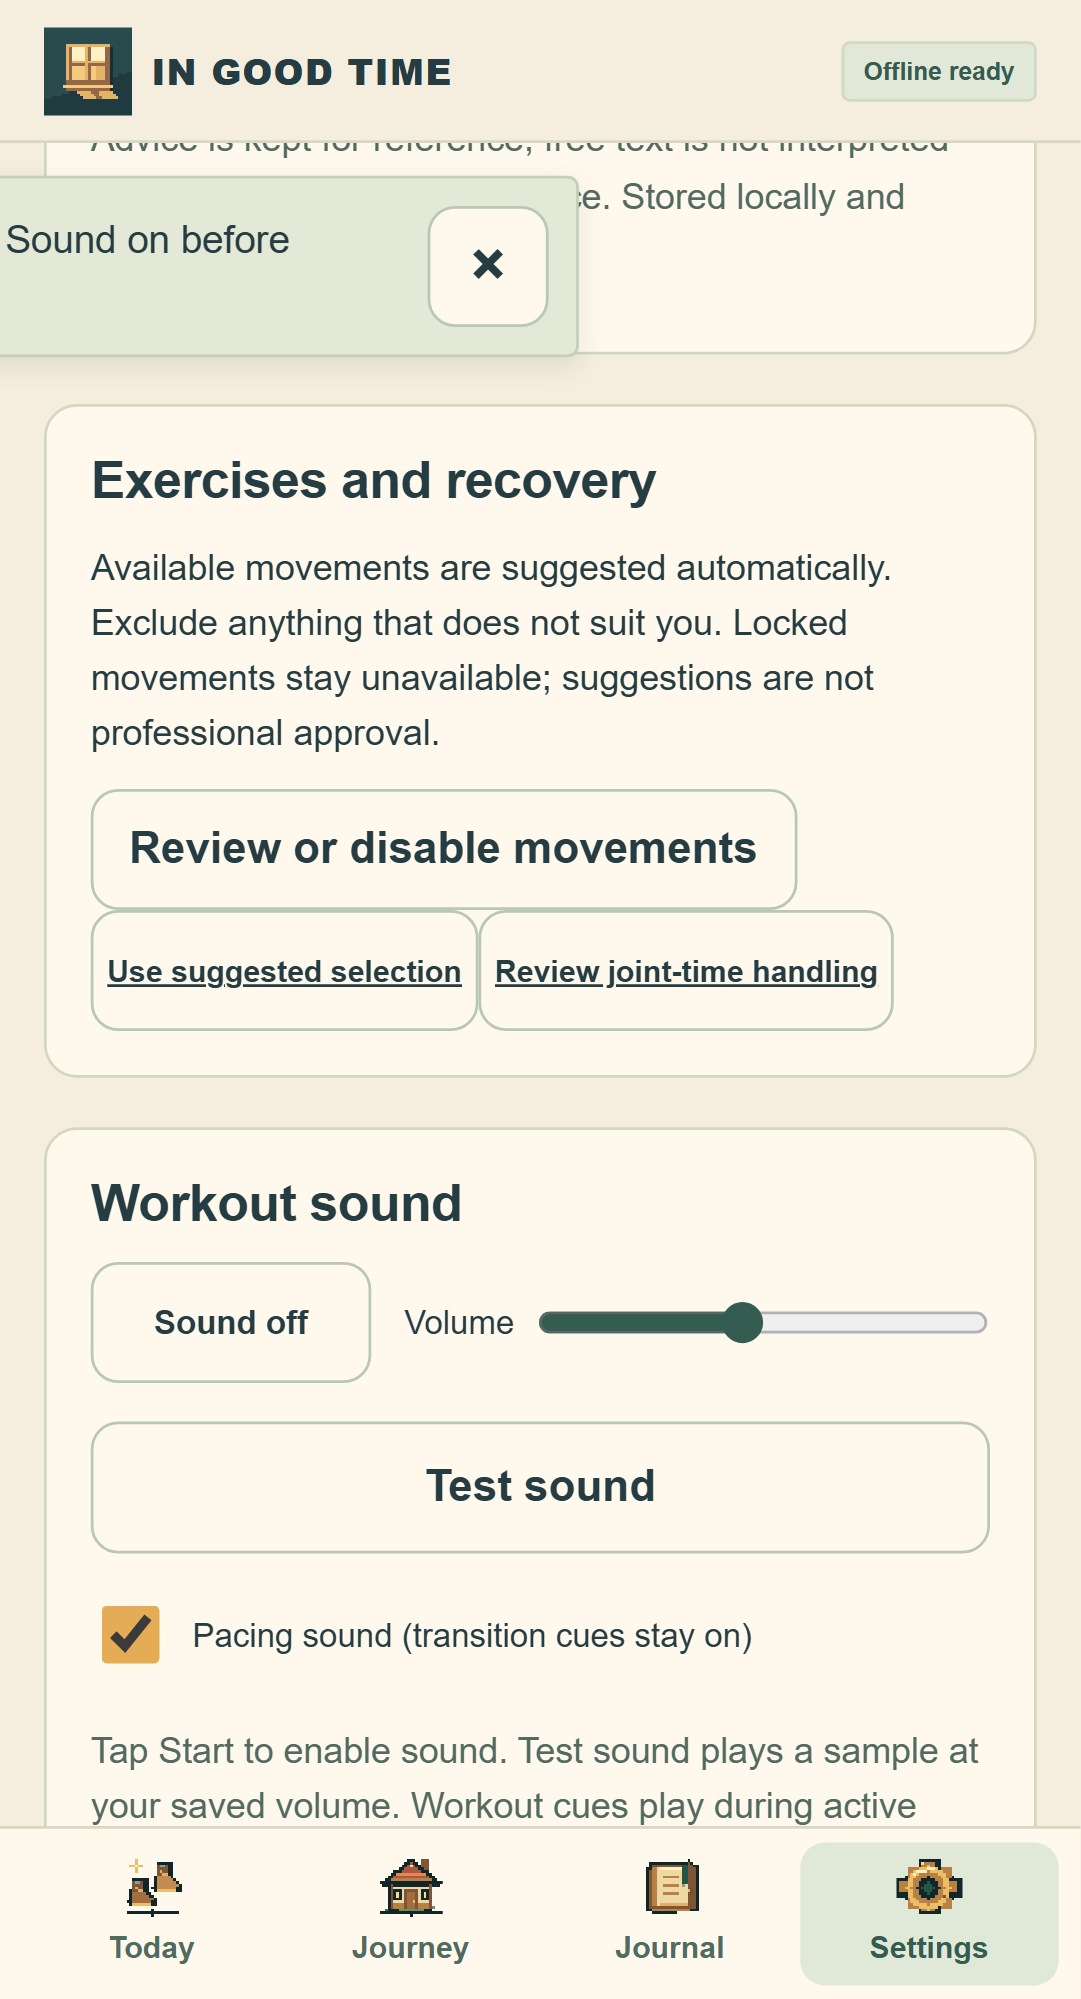
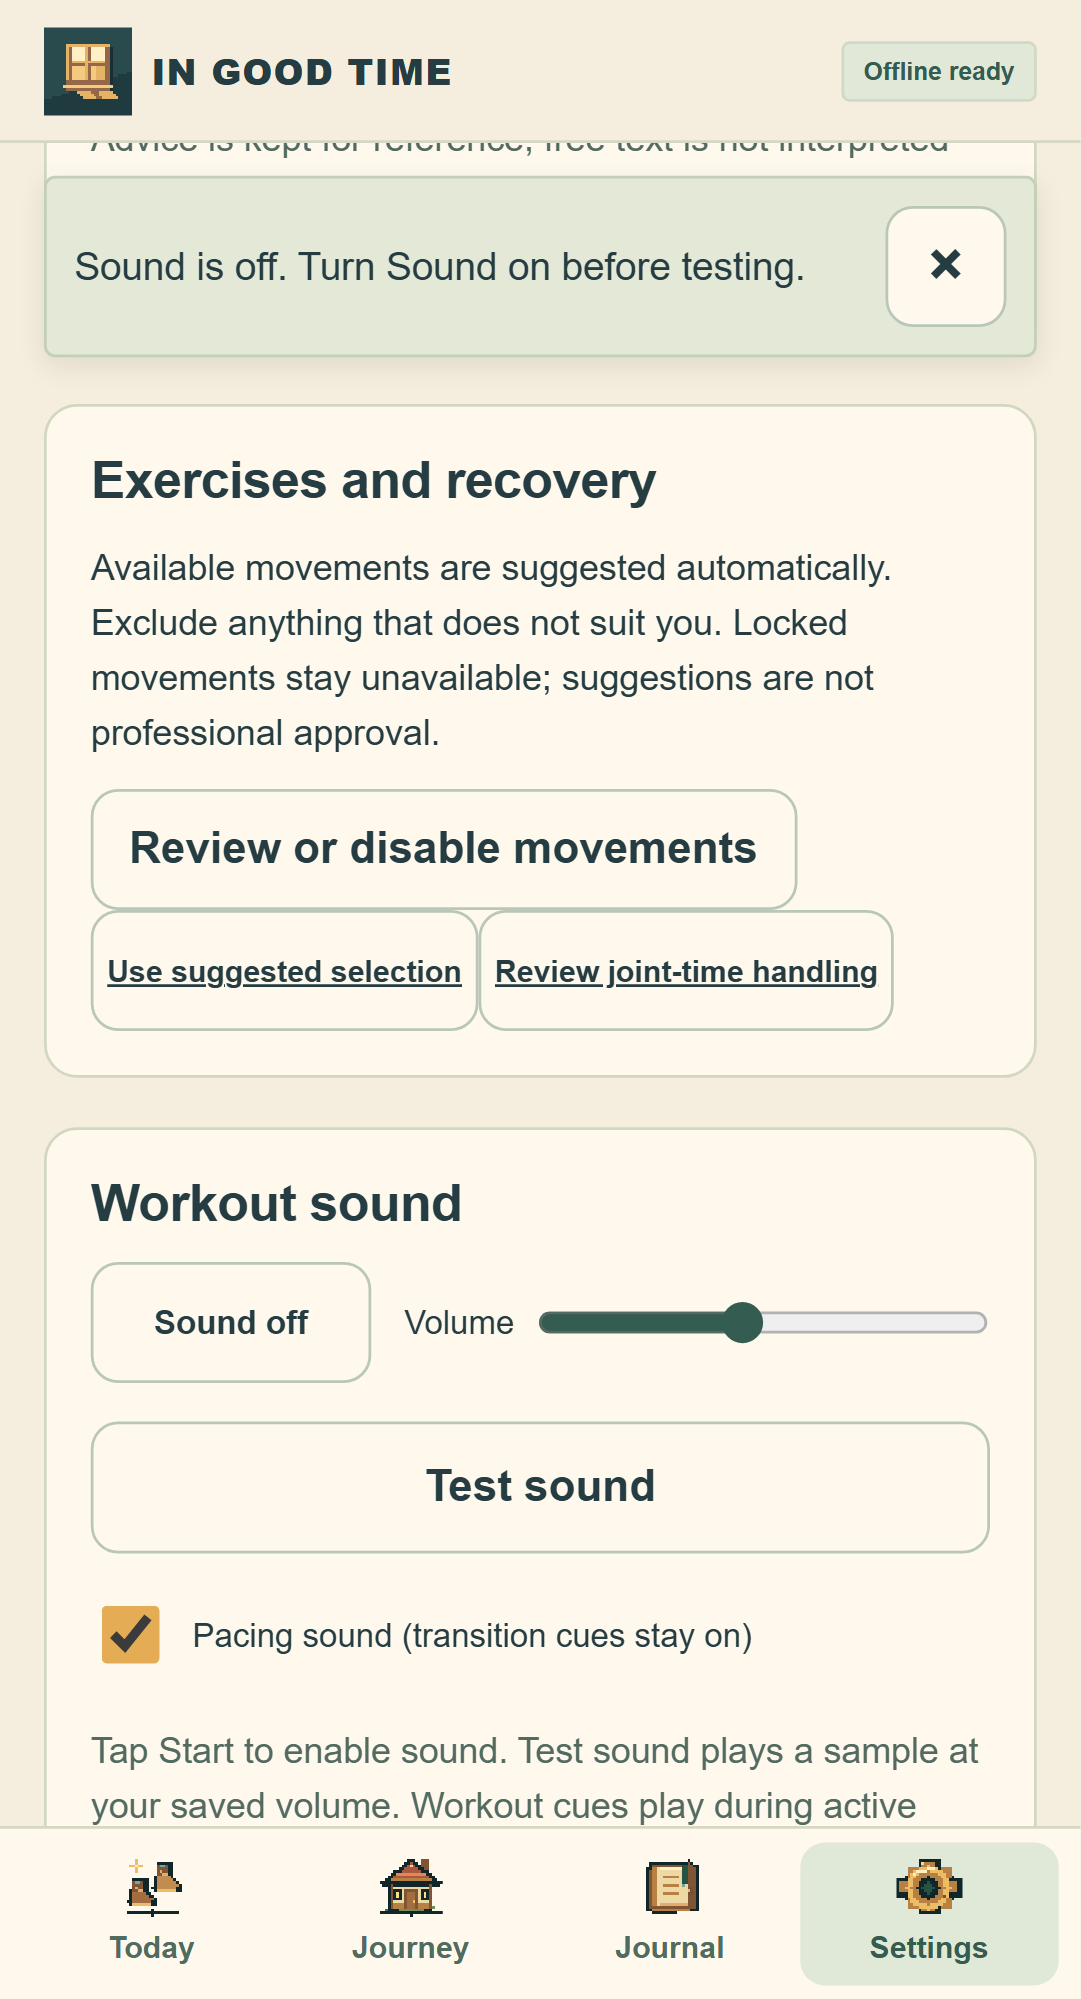
Reset inherited notice transform and assert full viewport bounds

Changed region(s): [[0.0, 0.062, 0.9769, 0.1861]]

diff --git a/src/comeback.css b/src/comeback.css
@@ -32,7 +32,7 @@
 .comeback-mode .plan .row.between .focus-picker select{font-size:16px;width:140px;max-width:140px}
 .comeback-mode .plan .row.between h2{flex:1;min-width:0}
 .comeback-mode :is(button,a,input,select,textarea,summary):focus-visible{outline:2px solid #345c51;outline-offset:3px}
-.comeback-mode .notice{position:sticky;top:0;z-index:6;box-shadow:0 3px 10px #243c421a;font-size:14px}
+.comeback-mode .notice{position:sticky;top:0;left:auto;transform:none;width:100%;max-width:none;z-index:6;box-shadow:0 3px 10px #243c421a;font-size:14px}
 .comeback-mode .notice>span{min-width:0}
 .comeback-mode .exercise-review{overscroll-behavior:contain;scroll-padding-block:18px 150px}
 .comeback-mode .history-heading{display:flex;align-items:flex-start;justify-content:space-between;gap:8px}

diff --git a/docs/ai_dev_log.md b/docs/ai_dev_log.md
@@ -1,3 +1,8 @@
+## 2026-11-01 - Live visual review catches inherited notice transform
+
+- Hosted gate41354323265 passed57 mobile cases and166 unit/art, but final live screenshot review exposed a notice shifted partly off the left edge. The legacy chapter toast retained left50%/translateX(-50%) after the sticky-position override. The prior partial-visibility assertion missed this clipping; the release is not considered closed until corrected.
+- Explicitly reset left/transform/width/max-width in the scoped comeback notice rule. Added full left/right viewport-bound checks to both mobile regression and live verifier. No behavioural/data/eligibility/artwork changes. Focused6 mobile cases PASS; corrected full-width iPhone notice screenshot visually reviewed. Comeback build PASS,53 cached files. Republishing follows.
+
 ## 2026-11-01 - Polish deployed; ready for the planned week
 
 - Runtime source f439dbd plus test-sync fix fd19e4749d9458a2be0246c89a4e59ac3d8c3c98 deployed through successful Pages run41354323265. Final166 unit/art PASS;57 hosted mobile PASS,1 expected WebKit codec skip. All gates retained, including installed update/old backup, actual workout/rewards, interruptions, feedback, audio, all character stages, symptom holds, advisory policy and polish.
